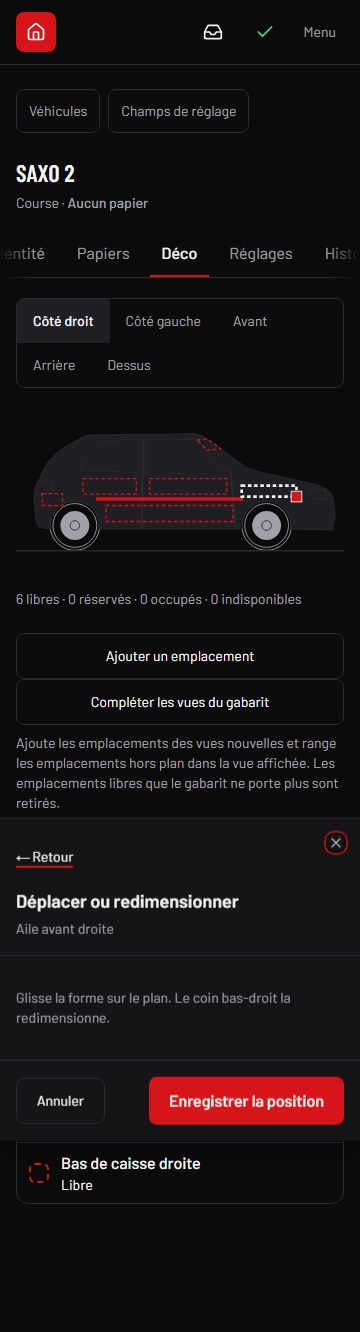
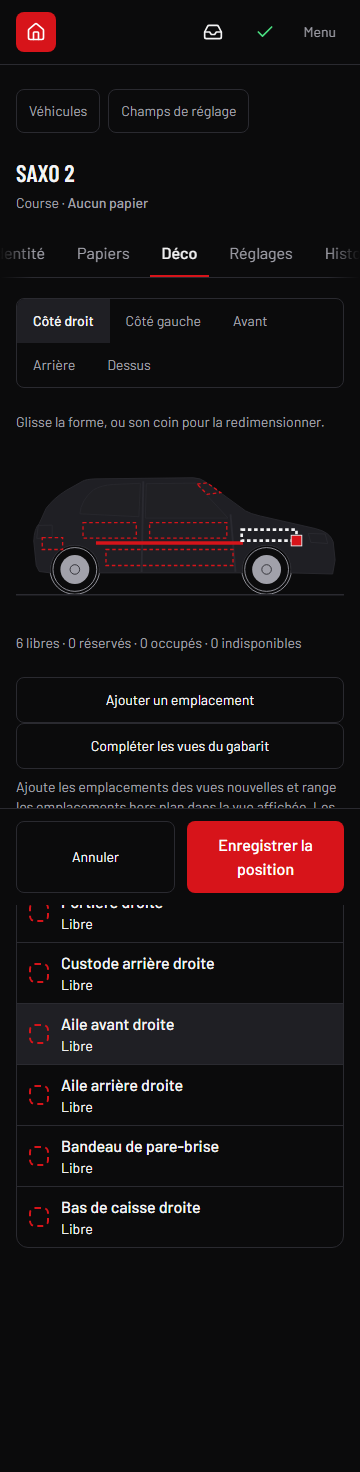
Déco : sur téléphone, déplacer une forme se fait sur une barre compacte
Sous 768 px, « Déplacer ou redimensionner » ne prend plus l'écran : une barre fixe en bas, avec « Annuler » et « Enregistrer la position », sans texte d'explication. Elle n'est pas modale : le plan reste visible et actif, et la forme déplacée est recentrée au relâchement pour rester au-dessus de la barre. Une ligne d'aide remplace le texte du tiroir. Ordinateur inchangé.

diff --git a/e2e/voiture-deco.spec.ts b/e2e/voiture-deco.spec.ts
@@ -3,7 +3,7 @@
 // docs/captures/ : à 1440 px, à 360 px, et en thème clair à 1440 px.
 import path from "node:path"
 
-import type { Page } from "@playwright/test"
+import type { CDPSession, Page } from "@playwright/test"
 
 import { expect, test } from "./aide/fixtures"
 import { connecterParLien } from "./aide/navigation"
@@ -25,13 +25,13 @@ async function capturerEcran(page: Page, nom: string): Promise<void> {
   await page.screenshot({ path: path.join(DOSSIER, nom), fullPage: false })
 }
 
-// Capture pleine page : éléments fixes masqués, comme dans voiture.spec.ts, sauf le tiroir (role dialog), qui est
-// le sujet de la capture et que le test retrouve ensuite.
+// Capture pleine page : éléments fixes masqués, comme dans voiture.spec.ts, sauf le tiroir (role dialog) et la barre
+// « Déplacer ou redimensionner » du téléphone, qui sont le sujet de la capture.
 async function capturer(page: Page, nom: string): Promise<void> {
   await page.addStyleTag({ content: "nextjs-portal { display: none !important; }" })
   await page.evaluate(() => {
     document.querySelectorAll<HTMLElement>("body *").forEach((element) => {
-      if (element.closest('[role="dialog"]')) return
+      if (element.closest('[role="dialog"], [data-barre-position]')) return
       if (getComputedStyle(element).position === "fixed") element.style.display = "none"
     })
   })
@@ -262,12 +262,14 @@ test("responsable, téléphone 360 px : la liste ouvre le tiroir, sans défileme
   await sansDefilementHorizontal(page)
   await capturer(page, "voiture-deco-pose-360.png")
 
-  // Le déplacement se fait aussi dans le tiroir.
+  // Le déplacement ne passe plus par le tiroir : une barre compacte en bas, et le plan reste visible.
   await ligne(page, "Aile arrière").click()
   await tiroir.getByRole("button", { name: "Déplacer ou redimensionner" }).click()
-  await expect(tiroir.getByText("Glisse la forme sur le plan", { exact: false })).toBeVisible()
+  await expect(page.getByRole("dialog")).toHaveCount(0)
+  await expect(page.getByText("Glisse la forme, ou son coin pour la redimensionner.")).toBeVisible()
   await capturer(page, "voiture-deco-deplacement-360.png")
-  await tiroir.getByRole("button", { name: "Annuler" }).click()
+  await page.getByRole("form", { name: "Déplacer ou redimensionner Aile arrière" }).getByRole("button", { name: "Annuler", exact: true }).click()
+  await expect(page.getByRole("button", { name: "Enregistrer la position" })).toHaveCount(0)
   await sansDefilementHorizontal(page)
 })
 
@@ -388,6 +390,15 @@ test("responsable : redimensionner à la poignée, puis glisser, garde la taille
   await expect.poll(async () => Number(await forme(page, "Aile avant").getAttribute("height"))).toBeCloseTo(tireeHeight, 1)
 })
 
+// Un glissement au doigt, de dx, dy pixels à l'écran, depuis le point de départ (événements tactiles du navigateur).
+async function glisserAuDoigt(cdp: CDPSession, de: { x: number; y: number }, dx: number, dy: number): Promise<void> {
+  await cdp.send("Input.dispatchTouchEvent", { type: "touchStart", touchPoints: [{ x: de.x, y: de.y }] })
+  for (let i = 1; i <= 8; i++) {
+    await cdp.send("Input.dispatchTouchEvent", { type: "touchMove", touchPoints: [{ x: de.x + (dx * i) / 8, y: de.y + (dy * i) / 8 }] })
+  }
+  await cdp.send("Input.dispatchTouchEvent", { type: "touchEnd", touchPoints: [] })
+}
+
 // Même scénario au doigt, sur un téléphone de 360 px : le geste passe par les événements tactiles du navigateur.
 test.describe("téléphone 360 px, au doigt", () => {
   test.use({ hasTouch: true })
@@ -406,26 +417,60 @@ test.describe("téléphone 360 px, au doigt", () => {
     await tiroir.getByRole("button", { name: "Déplacer ou redimensionner" }).click()
     await forme(page, "Aile avant").scrollIntoViewIfNeeded()
     const cdp = await page.context().newCDPSession(page)
-    const toucher = async (de: { x: number; y: number }, dx: number, dy: number) => {
-      await cdp.send("Input.dispatchTouchEvent", { type: "touchStart", touchPoints: [{ x: de.x, y: de.y }] })
-      for (let i = 1; i <= 8; i++) {
-        await cdp.send("Input.dispatchTouchEvent", { type: "touchMove", touchPoints: [{ x: de.x + (dx * i) / 8, y: de.y + (dy * i) / 8 }] })
-      }
-      await cdp.send("Input.dispatchTouchEvent", { type: "touchEnd", touchPoints: [] })
-    }
     await capturer(page, "voiture-deco-glissement-avant-360.png")
     const boitePoignee = await poignee(page).boundingBox()
     if (!boitePoignee) throw new Error("Aile avant : pas de poignée à l'écran")
-    await toucher({ x: boitePoignee.x + boitePoignee.width / 2, y: boitePoignee.y + boitePoignee.height / 2 }, 30, 10)
+    await glisserAuDoigt(cdp, { x: boitePoignee.x + boitePoignee.width / 2, y: boitePoignee.y + boitePoignee.height / 2 }, 30, 10)
     await expect.poll(async () => Number(await forme(page, "Aile avant").getAttribute("width"))).toBeGreaterThan(largeur + 3)
-    await expect(tiroir.getByRole("button", { name: "Enregistrer la position" })).toBeVisible()
+    await expect(page.getByRole("button", { name: "Enregistrer la position" })).toBeVisible()
     const largeurTiree = Number(await forme(page, "Aile avant").getAttribute("width"))
 
     const boite = await forme(page, "Aile avant").boundingBox()
     if (!boite) throw new Error("Aile avant : pas de boîte à l'écran")
-    await toucher({ x: boite.x + boite.width / 2, y: boite.y + boite.height / 2 }, 20, 0)
+    await glisserAuDoigt(cdp, { x: boite.x + boite.width / 2, y: boite.y + boite.height / 2 }, 20, 0)
     expect(Number(await forme(page, "Aile avant").getAttribute("width"))).toBeCloseTo(largeurTiree, 1)
     await capturer(page, "voiture-deco-glissement-apres-360.png")
+  })
+
+  // Sur téléphone, le déplacement se fait sur une barre compacte en bas, sans tiroir : le plan reste visible et actif,
+  // la forme se glisse au doigt, et elle reste au-dessus de la barre.
+  test("responsable, téléphone : déplacer une forme sur la barre, le plan reste actif et la forme au-dessus de la barre", async ({ page, equipe }) => {
+    test.setTimeout(240_000)
+    await connecterParLien(page, equipe)
+    await page.setViewportSize(BUREAU)
+    const vehiculeId = await creerSaxoDeux(page)
+    await page.setViewportSize(TELEPHONE)
+    await ouvrirDeco(page, vehiculeId)
+
+    await ligne(page, "Aile avant").click()
+    await page.getByRole("button", { name: "Déplacer ou redimensionner" }).click()
+    await expect(page.getByRole("dialog")).toHaveCount(0)
+    const barre = page.getByRole("form", { name: "Déplacer ou redimensionner Aile avant" })
+    await expect(barre.getByRole("button")).toHaveCount(2)
+    await expect(barre.getByRole("button", { name: "Annuler", exact: true })).toBeVisible()
+    await expect(barre.getByRole("button", { name: "Enregistrer la position", exact: true })).toBeVisible()
+    await expect(page.getByText("Glisse la forme, ou son coin pour la redimensionner.")).toBeVisible()
+    await sansDefilementHorizontal(page)
+
+    // Le plan reste actif : on glisse la forme au doigt, puis elle se pose au-dessus de la barre.
+    const cdp = await page.context().newCDPSession(page)
+    const xAvant = Number(await forme(page, "Aile avant").getAttribute("x"))
+    const depart = await forme(page, "Aile avant").boundingBox()
+    if (!depart) throw new Error("Aile avant : pas de boîte à l'écran")
+    await glisserAuDoigt(cdp, { x: depart.x + depart.width / 2, y: depart.y + depart.height / 2 }, 20, 0)
+    await expect.poll(async () => Number(await forme(page, "Aile avant").getAttribute("x"))).not.toBeCloseTo(xAvant, 0)
+    const xApres = Number(await forme(page, "Aile avant").getAttribute("x"))
+
+    const boiteForme = await forme(page, "Aile avant").boundingBox()
+    const boiteBarre = await barre.boundingBox()
+    if (!boiteForme || !boiteBarre) throw new Error("forme ou barre absente à l'écran")
+    expect(boiteForme.y + boiteForme.height).toBeLessThanOrEqual(boiteBarre.y)
+    await capturer(page, "voiture-deco-barre-position-apres-360.png")
+
+    await barre.getByRole("button", { name: "Enregistrer la position", exact: true }).click()
+    await expect(page.getByRole("button", { name: "Enregistrer la position" })).toHaveCount(0)
+    await page.reload()
+    await expect.poll(async () => Number(await forme(page, "Aile avant").getAttribute("x"))).toBeCloseTo(xApres, 1)
   })
 })
 

diff --git a/src/apps/voiture/composants/deco-plan.tsx b/src/apps/voiture/composants/deco-plan.tsx
@@ -25,7 +25,7 @@ import {
   type VuePlan,
 } from "../plan"
 import { PlanVehicule } from "./plan-vehicule"
-import { TiroirEmplacement, type EtapeEmplacement } from "./deco-panneau"
+import { BarrePosition, HAUTEUR_BARRE_POSITION, TiroirEmplacement, type EtapeEmplacement } from "./deco-panneau"
 
 // Vide : un véhicule sans gabarit n'a pas de plan, donc pas de déplacement.
 const BORNES_VIDES: Bornes = { x: 0, y: 0, l: 0, h: 0 }
@@ -84,6 +84,22 @@ function DecoInteractif({ ficheId, nomVehicule, gabarit, emplacements, peutEcrir
   const enDeplacementVisible = etape === "position" && visible !== null && visible.forme !== null
   // Pendant « Déplacer ou redimensionner », seul le logo en cours bouge : le reste de la page (côtés, ajout, liste) est inerte.
   const inerte = etape === "position" ? true : undefined
+  // Sur téléphone, cette étape se fait sur une barre fixe en bas, sans tiroir : le plan reste visible et actif.
+  const enBarre = enDeplacementVisible && !ordinateur && brouillon !== null
+
+  // La forme en déplacement reste au-dessus de la barre : au départ, puis à chaque relâchement du doigt ou de la souris.
+  useEffect(() => {
+    if (!enBarre) return
+    const garder = () => {
+      const forme = document.querySelector<SVGElement>('[data-deplacement="oui"]')
+      if (!forme) return
+      const boite = forme.getBoundingClientRect()
+      if (boite.top < 0 || boite.bottom > window.innerHeight - HAUTEUR_BARRE_POSITION) forme.scrollIntoView({ block: "center" })
+    }
+    garder()
+    window.addEventListener("pointerup", garder)
+    return () => window.removeEventListener("pointerup", garder)
+  }, [enBarre])
 
   // Pendant « Déplacer ou redimensionner », un autre emplacement ne se choisit pas : on sort par Enregistrer ou Annuler.
   function choisir(id: string) {
@@ -119,7 +135,7 @@ function DecoInteractif({ ficheId, nomVehicule, gabarit, emplacements, peutEcrir
   }
 
   return (
-    <div className="flex flex-col gap-6">
+    <div className={`flex flex-col gap-6 ${enBarre ? "pb-24" : ""}`}>
       {vuesDessinees.length > 1 && (
         <div role="group" aria-label="Vue du véhicule" inert={inerte} className="flex w-fit flex-wrap overflow-hidden rounded-md border border-bordure">
           {vuesDessinees.map((nouvelle) => (
@@ -138,6 +154,7 @@ function DecoInteractif({ ficheId, nomVehicule, gabarit, emplacements, peutEcrir
 
       {gabarit && (
         <>
+          {enBarre && <p className="text-sm text-texte-discret">Glisse la forme, ou son coin pour la redimensionner.</p>}
           <PlanVehicule
             nomVehicule={nomVehicule}
             gabarit={gabarit}
@@ -167,7 +184,9 @@ function DecoInteractif({ ficheId, nomVehicule, gabarit, emplacements, peutEcrir
         )}
       </section>
 
-      {visible && (
+      {visible && enBarre && brouillon && <BarrePosition emplacement={visible} brouillon={brouillon} onTerminer={() => allerA(null)} />}
+
+      {visible && !enBarre && (
         <TiroirEmplacement
           key={visible.id}
           emplacement={visible}

diff --git a/src/apps/voiture/composants/deco-panneau.tsx b/src/apps/voiture/composants/deco-panneau.tsx
@@ -7,7 +7,7 @@
 // redimensionner », non modale, parce qu'elle agit sur le plan. Sous le niveau écriture, la fiche reste en lecture seule.
 // Les actions sans saisie (rendre indisponible) restent des boutons de la fiche.
 
-import { useActionState, useState, type ReactNode } from "react"
+import { useActionState, useEffect, useState, type ReactNode } from "react"
 
 import { ChampFichier, type FichierEnvoye } from "@/components/formulaire/champ-fichier"
 import { Message } from "@/components/formulaire/message"
@@ -433,6 +433,52 @@ function EtapeRenommer({ emplacement, retour, modal }: EtapeCommune) {
         <input name="nom" required maxLength={80} defaultValue={emplacement.nom} className={CHAMP} />
       </Champ>
     </Etape>
+  )
+}
+
+// Hauteur de la barre « Déplacer ou redimensionner » sur téléphone : le plan la contourne (voir DecoPlan).
+export const HAUTEUR_BARRE_POSITION = 88
+
+// Sur téléphone, « Déplacer ou redimensionner » ne prend pas l'écran : une barre fixe en bas, sans texte d'explication.
+// Le plan reste visible et actif au-dessus. « Enregistrer » est le seul envoi ; « Annuler » revient à la fiche.
+export function BarrePosition({
+  emplacement,
+  brouillon,
+  onTerminer,
+}: {
+  emplacement: EmplacementPlan
+  brouillon: FormeEmplacement
+  onTerminer: () => void
+}) {
+  const [etat, envoyer, enCours] = useActionState<Resultat | null, FormData>(enregistrerPositionAction, null)
+  // Réussite : la barre se ferme, et la page affiche la nouvelle forme (revalidation côté serveur).
+  useEffect(() => {
+    if (etat?.ok) onTerminer()
+    // eslint-disable-next-line react-hooks/exhaustive-deps -- seule la réponse du serveur ferme la barre.
+  }, [etat])
+  return (
+    <form
+      action={envoyer}
+      aria-label={`Déplacer ou redimensionner ${emplacement.nom}`}
+      data-barre-position="oui"
+      className="fixed inset-x-0 bottom-0 z-40 flex flex-col gap-2 border-t border-bordure bg-fond px-4 pt-3 pb-[max(0.75rem,env(safe-area-inset-bottom))]"
+    >
+      <input type="hidden" name="slotId" value={emplacement.id} />
+      <input type="hidden" name="forme" value={JSON.stringify(brouillon)} />
+      {etat && !etat.ok && (
+        <p role="alert" className="text-sm text-etat-rouge">
+          {etat.message}
+        </p>
+      )}
+      <div className="flex gap-3">
+        <button type="button" onClick={onTerminer} className={`${BOUTON_SECONDAIRE} flex-1`}>
+          Annuler
+        </button>
+        <button type="submit" disabled={enCours} className={`${BOUTON} flex-1`}>
+          {enCours ? "Enregistrement…" : "Enregistrer la position"}
+        </button>
+      </div>
+    </form>
   )
 }
 

diff --git a/src/apps/voiture/composants/plan-vehicule.tsx b/src/apps/voiture/composants/plan-vehicule.tsx
@@ -297,6 +297,8 @@ function FormeEmplacementSvg({
     onPointerMove: onSuitGlissement,
     onPointerUp: onFinGlissement,
     onPointerCancel: onFinGlissement,
+    // Repère de la forme en déplacement : la page la retrouve pour la garder au-dessus de la barre (téléphone).
+    "data-deplacement": onDebutGlissement ? "oui" : undefined,
   }
   if (forme.type === "rect") {
     return <rect x={forme.x} y={forme.y} width={forme.l} height={forme.h} {...commun} />
